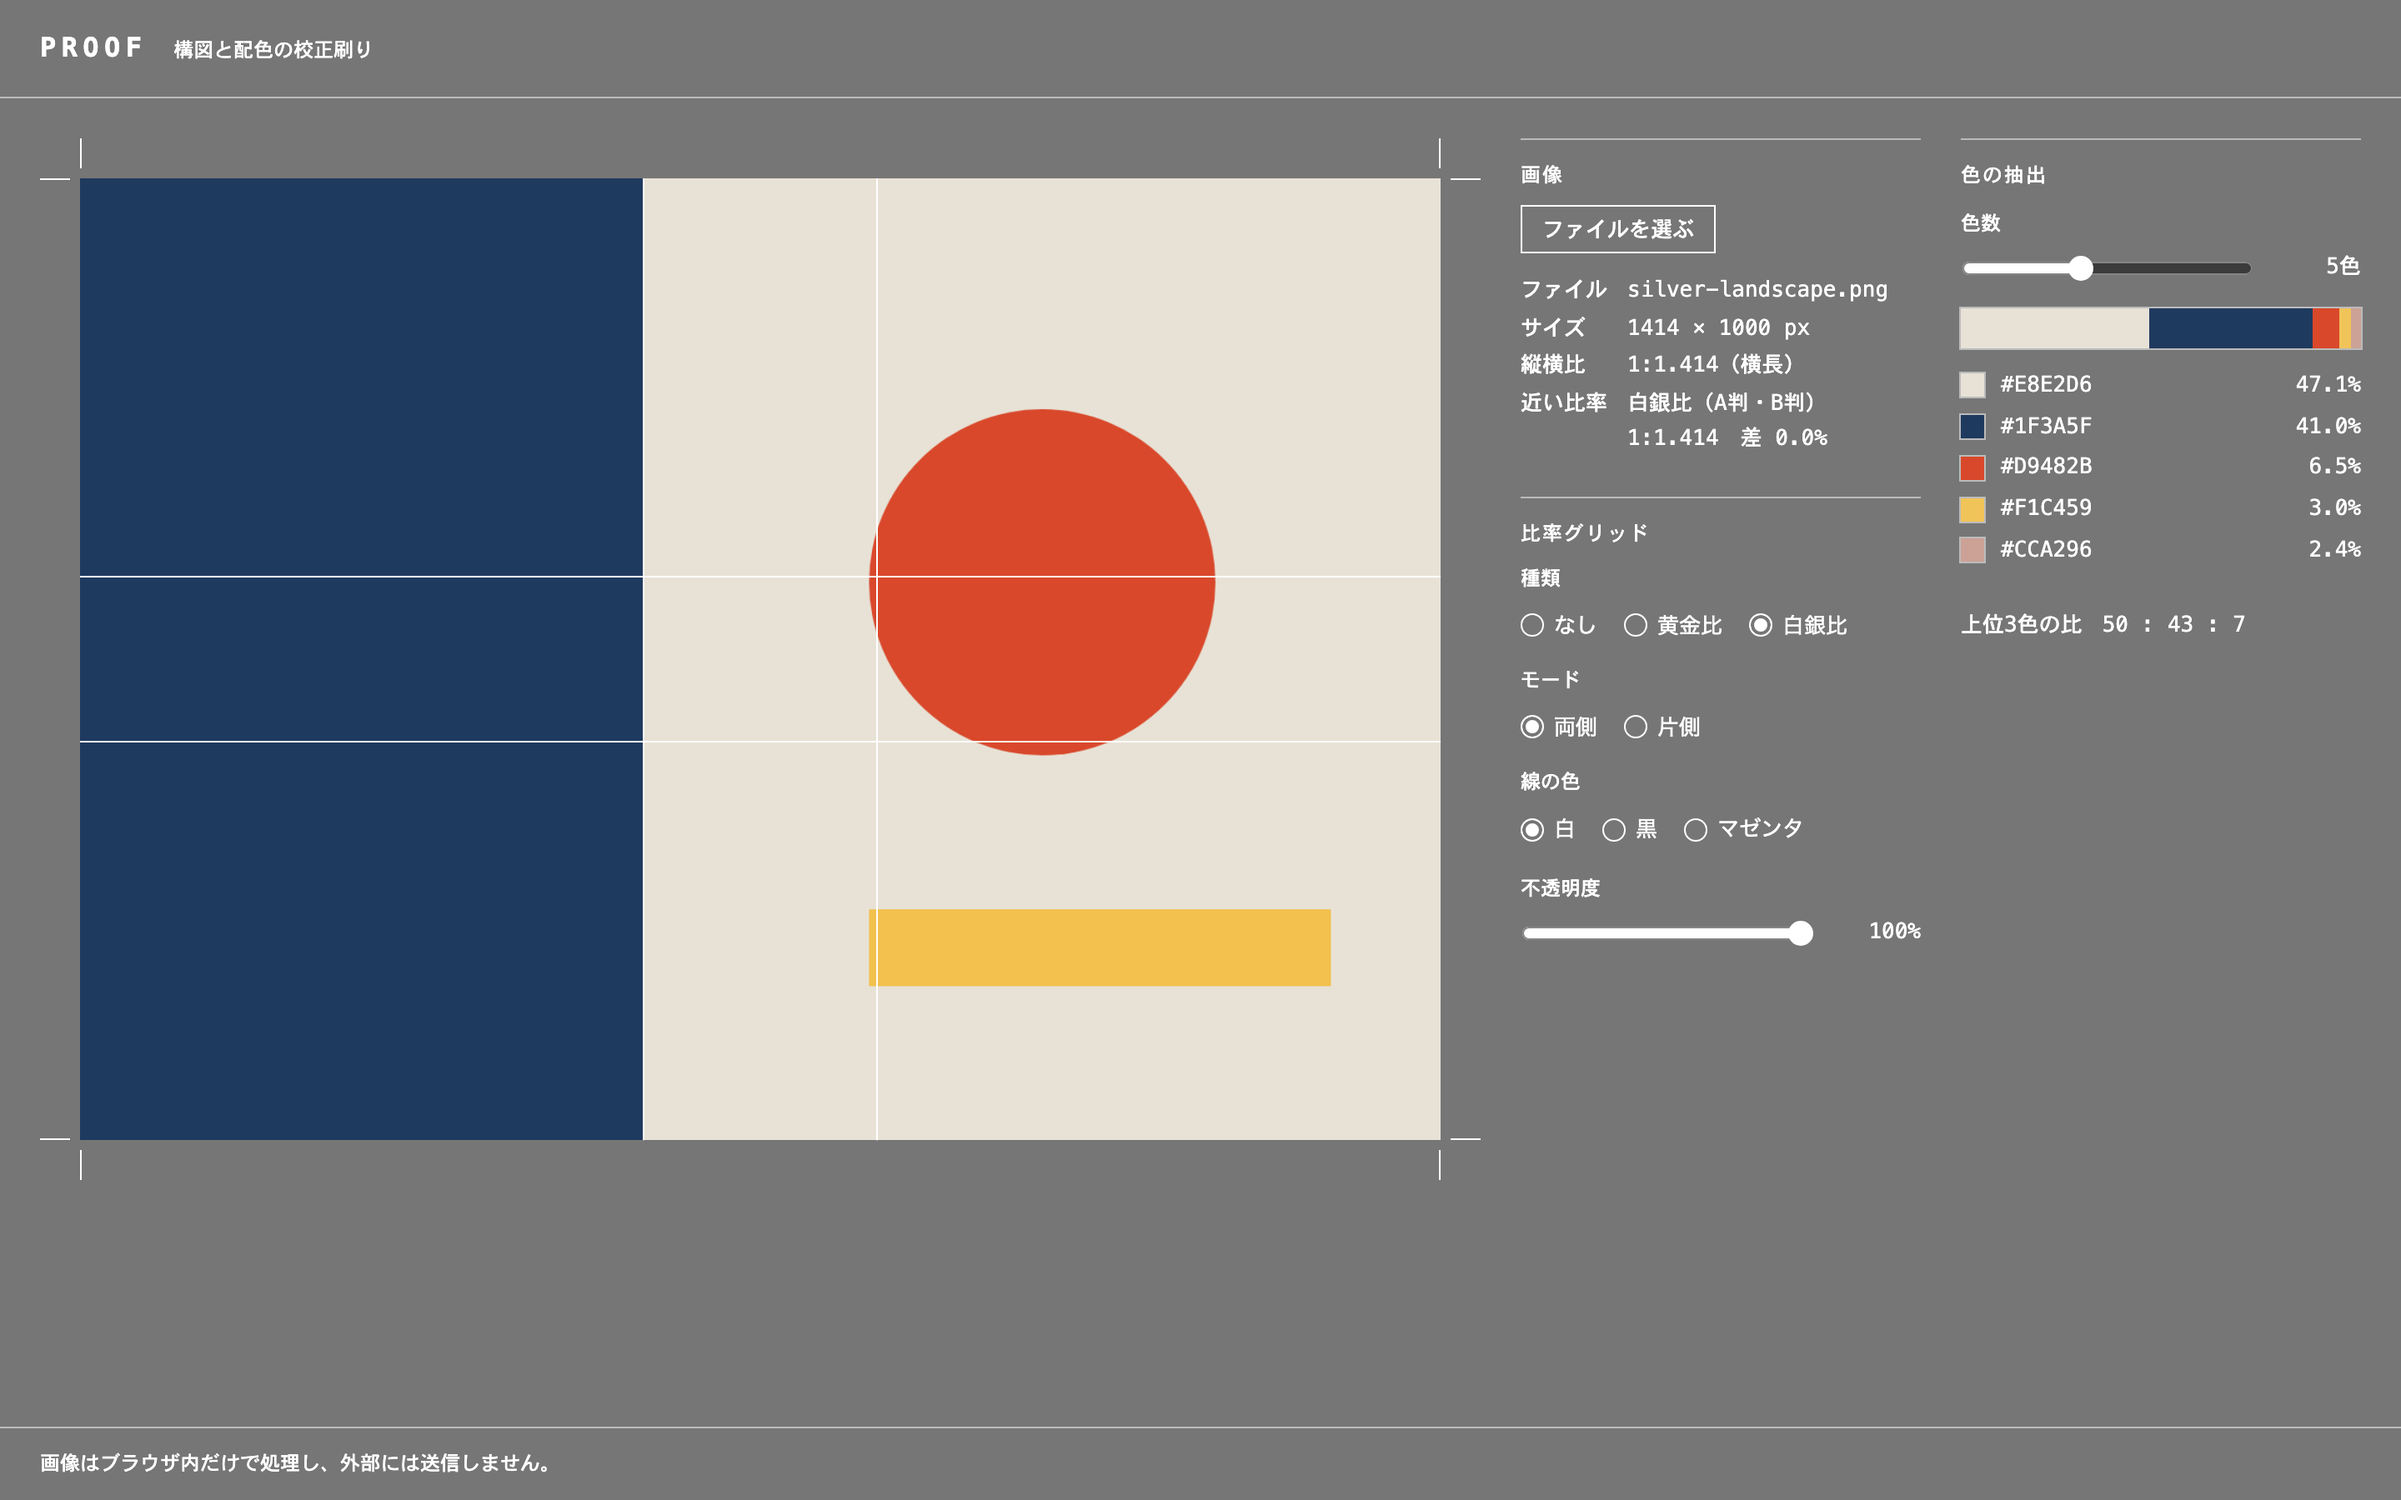
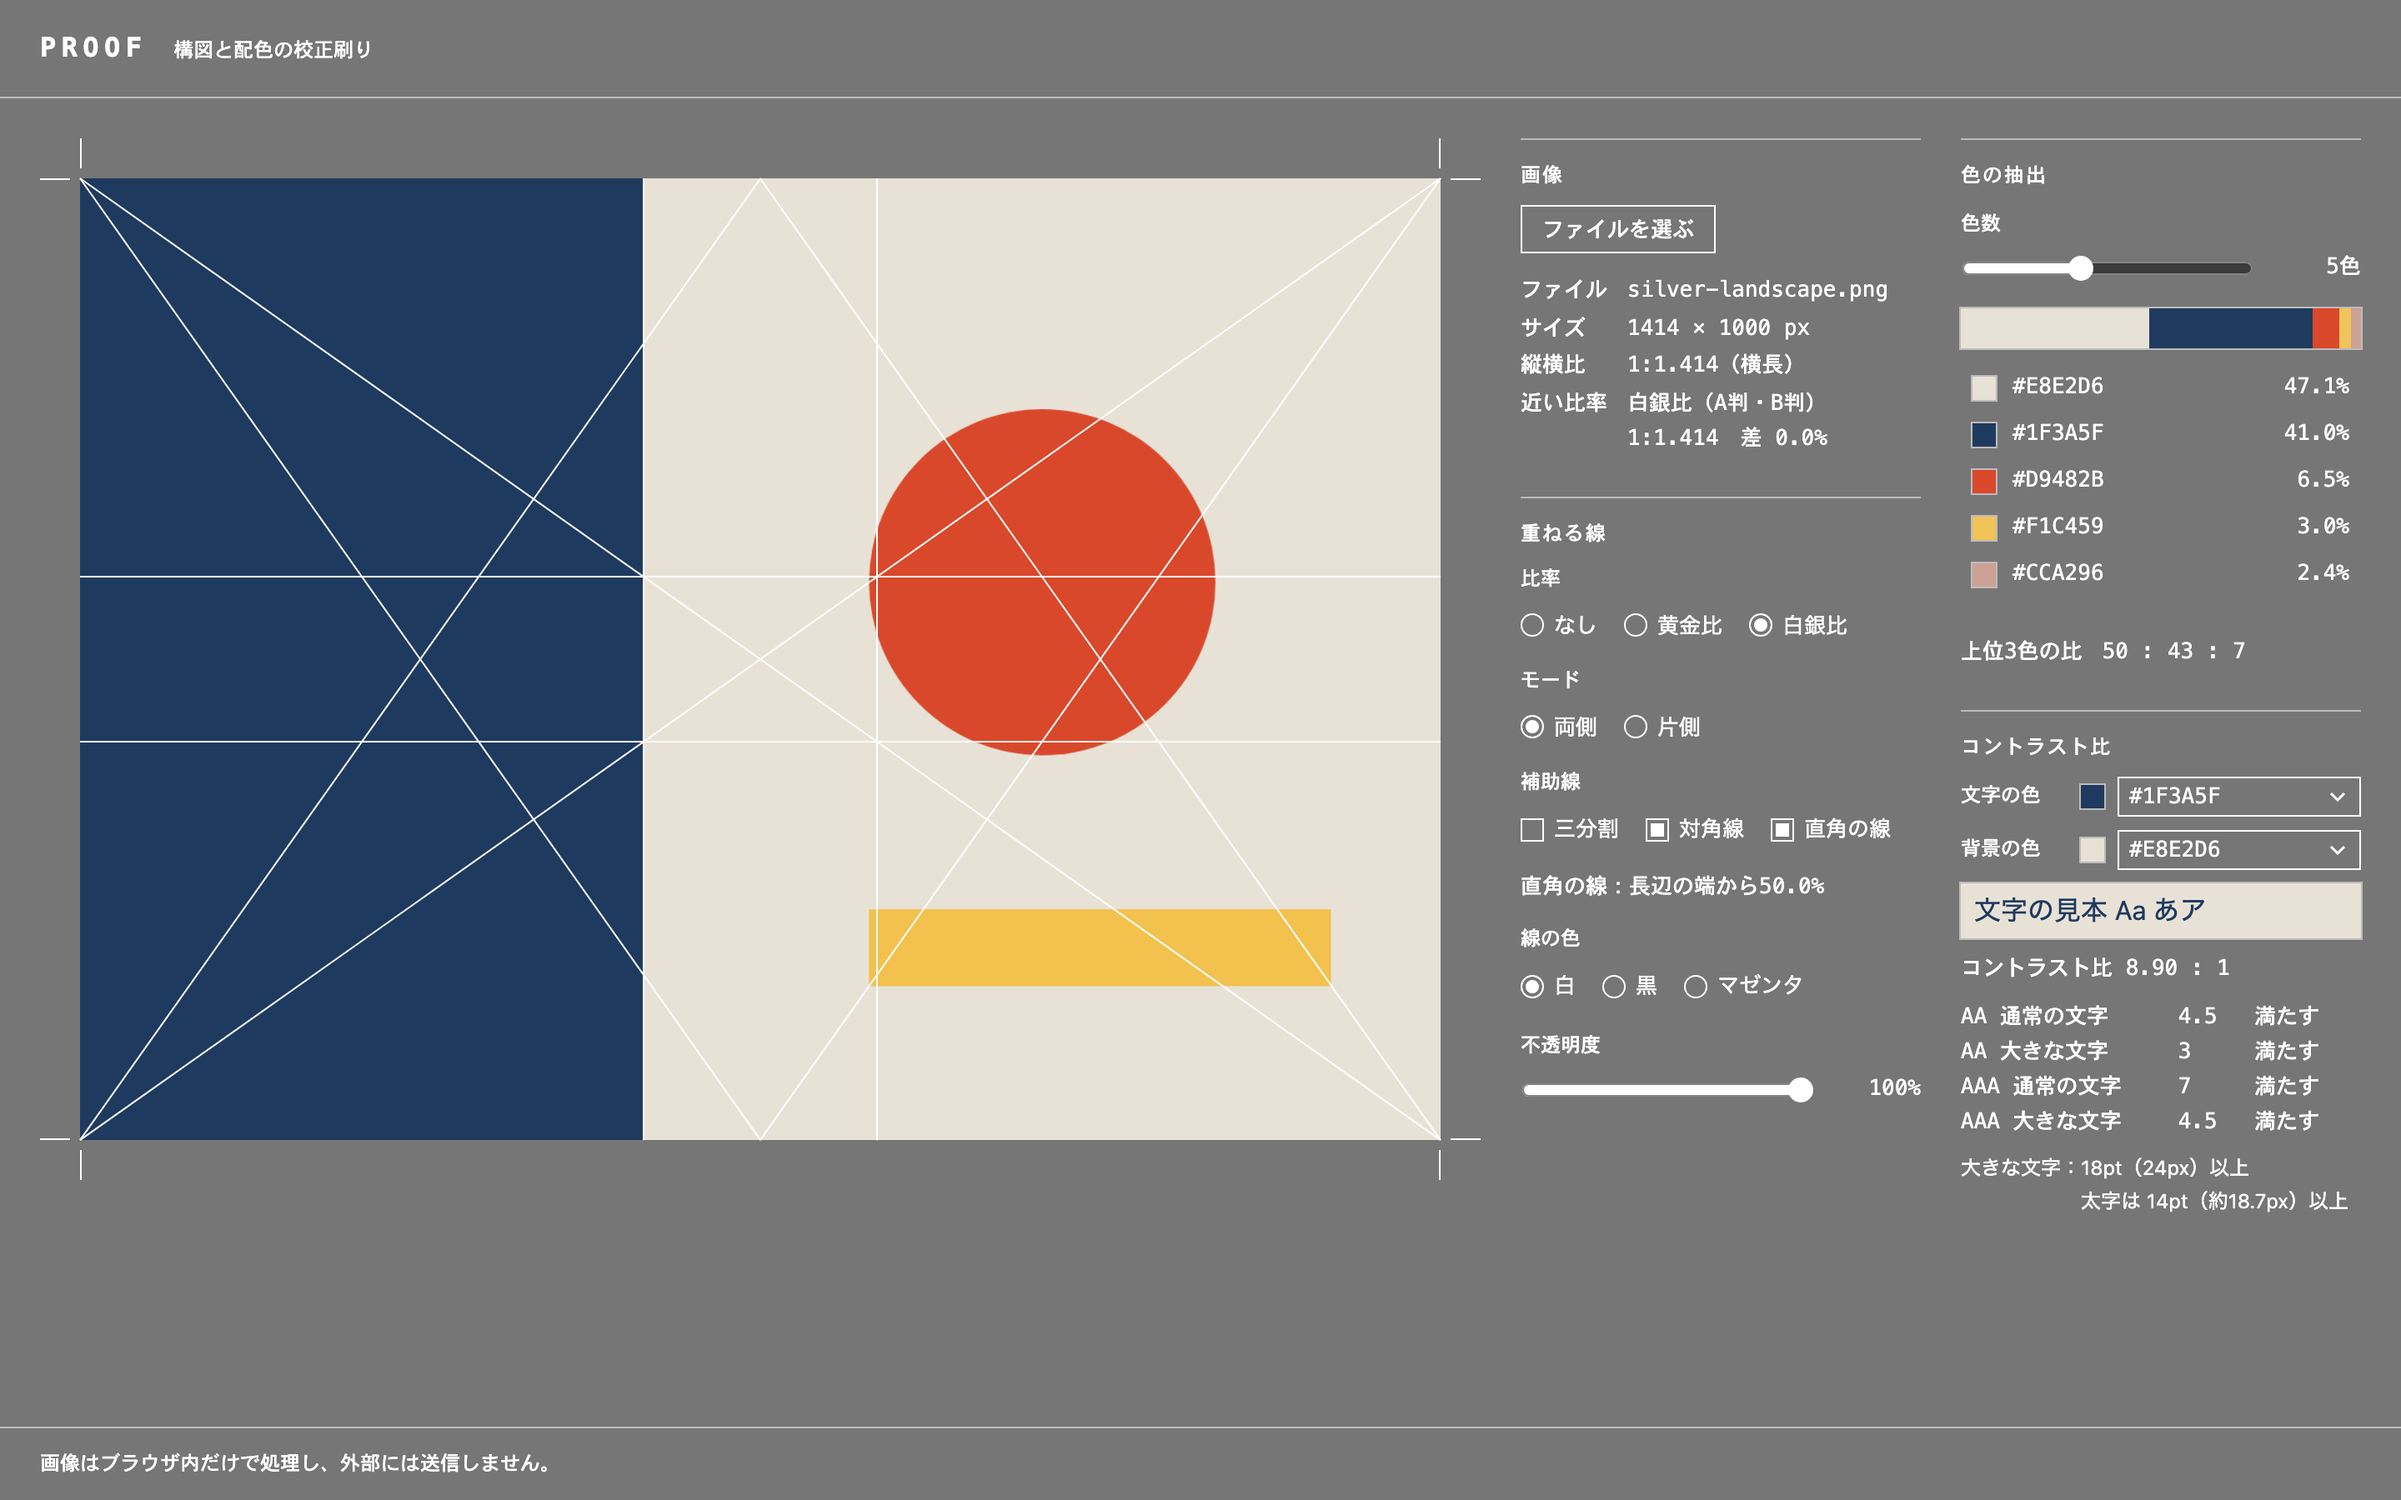
README のスクリーンショットを、今の機能が伝わるものに撮り直す
- 1枚目：白銀比のグリッド＋対角線＋直角の線（直角の線が長辺の50%に当たる）
- 2枚目：赤い正方形の色の強調表示＋白銀比・片側・下の黒い線
- どちらもコントラスト比の欄が見える 1440×900 の画面。代替テキストも合わせて更新

diff --git a/README.md b/README.md
@@ -4,9 +4,9 @@
 
 **→ [https://odditymana.github.io/proof/](https://odditymana.github.io/proof/)**
 
-![横長の画像に白銀比のグリッドを重ね、右のパネルに縦横比と5色の抽出結果を表示した画面](docs/screenshot-landscape.png)
+![横長の画像に、白銀比のグリッドと対角線、対角線に直角に交わる線を重ねた画面。直角の線は上下の辺のちょうど中央に当たり、右のパネルに「直角の線：長辺の端から50.0%」と、色の抽出結果、コントラスト比を表示している](docs/screenshot-landscape.png)
 
-![縦長の画像に、下端から41.4%の位置の白銀比の線を1本重ねた画面。線は画像の緑の帯の境目と重なっている](docs/screenshot-portrait.png)
+![縦長の画像で、抽出した赤（#C43D5A）を選び、正方形の部分だけを元の色のまま残してほかを明るいグレーに寄せた画面。白銀比の黒い線（下端から41.4%）が、グレーに寄せた帯の上端と重なり、右のパネルに文字と背景のコントラスト比 6.64:1 と、各基準を満たすかどうかを表示している](docs/screenshot-portrait.png)
 
 PROOF は印刷の「校正刷り」のこと。自分のデザインの構図や配色を確かめ、言葉にするための補助ツールです。良し悪しの採点や自動判定はしません。数値は推測ではなく計測で出すので、同じ画像なら毎回同じ結果になります。
 
